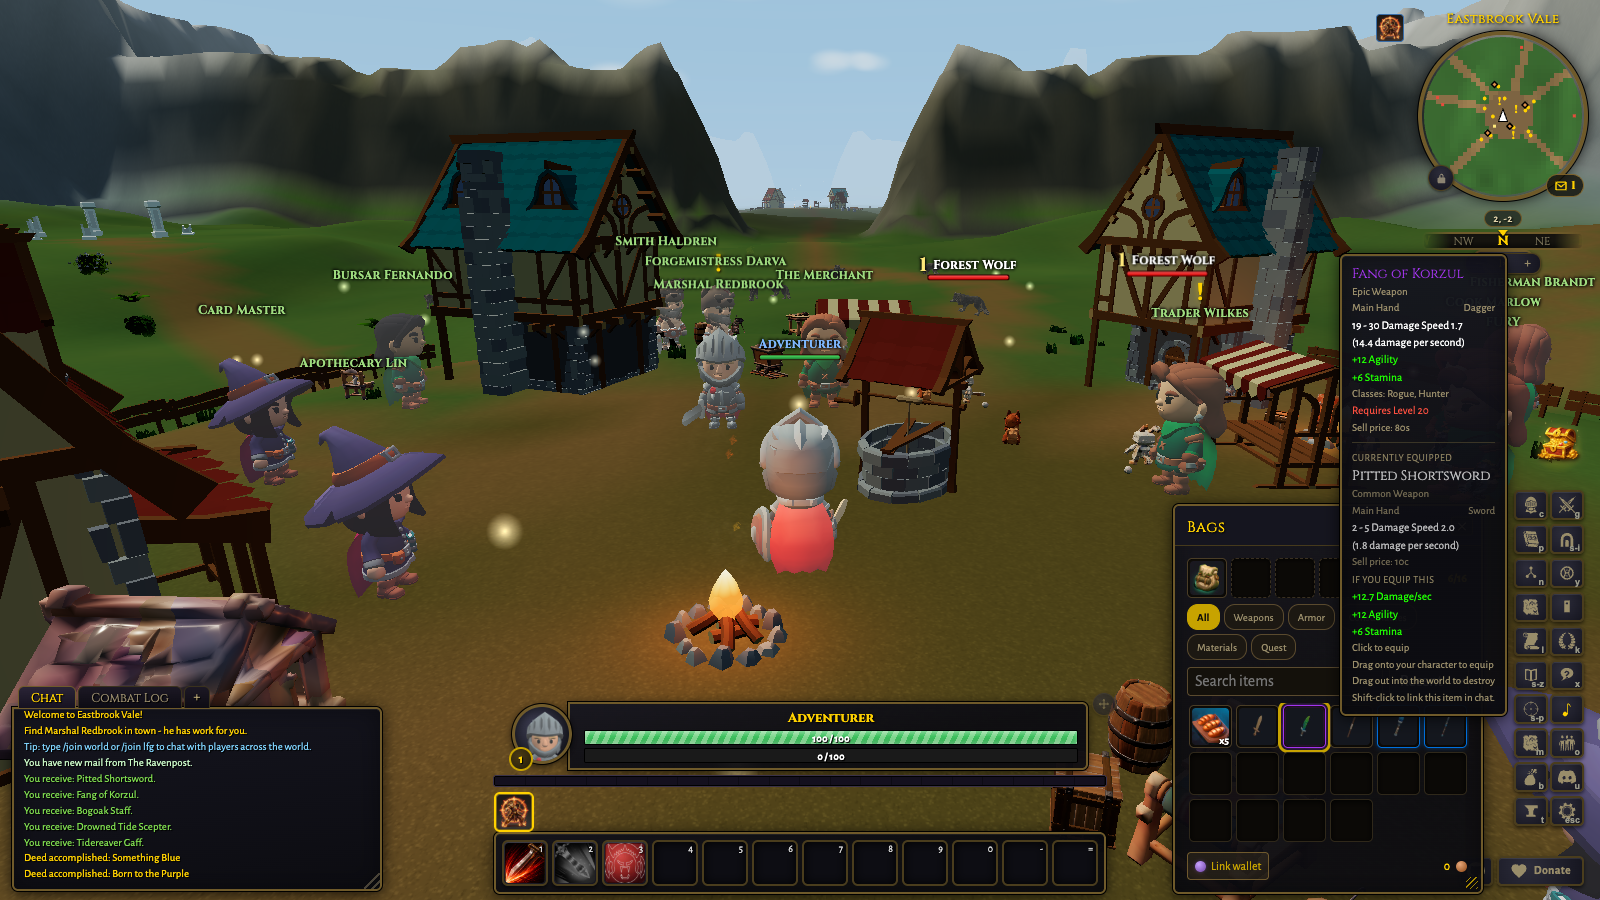
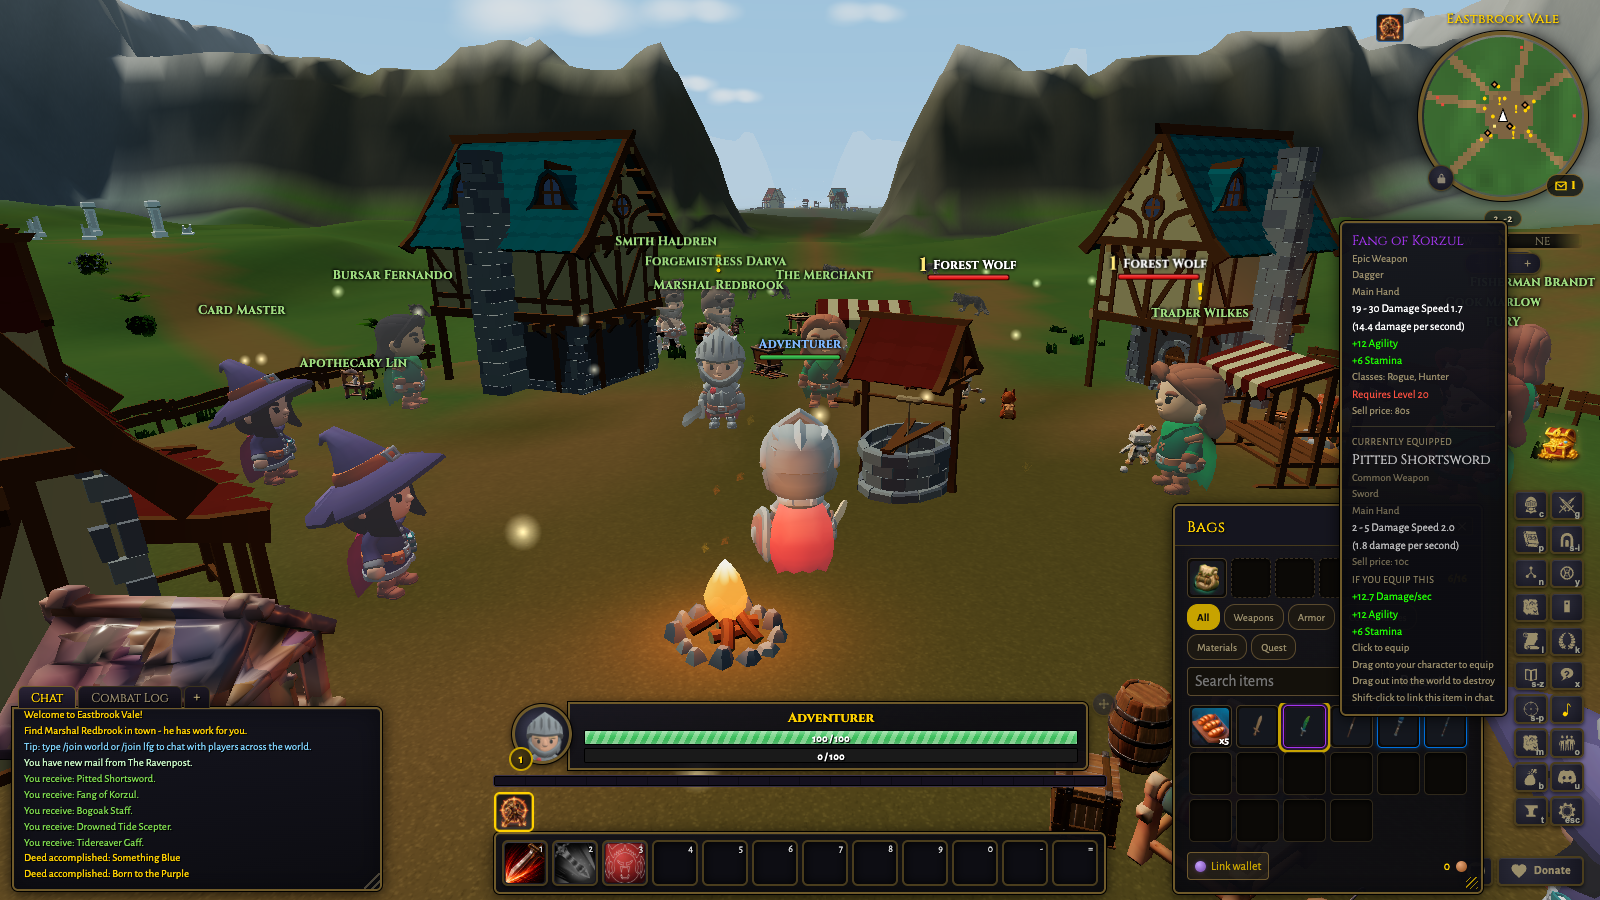
refactor(ui): show weapon type on its own line, not right-aligned
Per review feedback the right-aligned type chip on the slot line read cramped.
Move the weapon type to its own plain muted line under the quality/kind line and
above the slot/handedness line, classic-style, e.g.

  Epic Weapon
  Dagger
  Main Hand

The armor-weight row (Cloth/Leather/Mail, right-aligned and class-colored) is
unchanged. Updates the tooltip test to pin the new stacked ordering and refreshes
the before/after screenshots.

diff --git a/tests/weapon_type_tooltip.test.ts b/tests/weapon_type_tooltip.test.ts
@@ -31,39 +31,46 @@ function tooltip(itemId: string, playerClass?: string): string {
   return harness(playerClass).itemTooltip(item, false);
 }
 
-describe('weapon type on the item tooltip slot line', () => {
-  it('shows a sword its type in a tt-weapon-type span on the slot row', () => {
+describe('weapon type line on the item tooltip', () => {
+  it('shows a sword its type on its own plain line under the quality/kind line and above the slot', () => {
     const html = tooltip('worn_sword');
-    expect(html).toContain('tt-weapon-type');
-    expect(html).toContain('>Sword<');
-    // Mirrors the armor-weight row: same tt-sub tt-row two-sided layout.
-    expect(html).toMatch(/<div class="tt-sub tt-row">.*tt-weapon-type/);
-    // Never colored by class like armor weight.
+    // Its own plain sub-line, NOT a right-aligned chip inside the slot tt-row.
+    expect(html).toContain('<div class="tt-sub tt-weapon-type">Sword</div>');
+    // Ordering: quality/kind line, then the type line, then the slot line.
+    const qualityIdx = html.indexOf('<div class="tt-sub">Common Weapon</div>');
+    const typeIdx = html.indexOf('<div class="tt-sub tt-weapon-type">Sword</div>');
+    const slotIdx = html.indexOf('<div class="tt-sub">Main Hand</div>');
+    expect(qualityIdx).toBeGreaterThanOrEqual(0);
+    expect(typeIdx).toBeGreaterThan(qualityIdx);
+    expect(slotIdx).toBeGreaterThan(typeIdx);
+    // Never a right-aligned tt-row chip and never colored by class like armor weight.
+    expect(html).not.toMatch(/tt-row"><span>[^<]*<\/span><span class="tt-weapon-type"/);
     expect(html).not.toContain('tt-armor');
   });
 
   it('shows a dagger its type and drops the old standalone Dagger sub-line', () => {
     const html = tooltip('fang_of_korzul');
-    expect(html).toContain('tt-weapon-type');
-    expect(html).toContain('>Dagger<');
-    // The legacy line was a plain `<div class="tt-sub">Dagger</div>` with no
-    // tt-row wrapper. Assert that exact standalone form is gone (the type now
-    // rides the slot row instead).
+    expect(html).toContain('<div class="tt-sub tt-weapon-type">Dagger</div>');
+    // The legacy line was a plain `<div class="tt-sub">Dagger</div>` (no
+    // tt-weapon-type class) emitted below the DPS. Assert that exact standalone
+    // form is gone: the type now reads on its own line above the slot instead.
     expect(html).not.toContain('<div class="tt-sub">Dagger</div>');
   });
 
   it('labels a polearm with the newly added type label', () => {
-    const html = tooltip('tidereaver_gaff');
-    expect(html).toContain('tt-weapon-type');
-    expect(html).toContain('>Polearm<');
+    expect(tooltip('tidereaver_gaff')).toContain(
+      '<div class="tt-sub tt-weapon-type">Polearm</div>',
+    );
   });
 
   it('labels staff and wand types', () => {
-    expect(tooltip('gnarled_staff')).toContain('>Staff<');
-    expect(tooltip('drowned_tide_scepter')).toContain('>Wand<');
+    expect(tooltip('gnarled_staff')).toContain('<div class="tt-sub tt-weapon-type">Staff</div>');
+    expect(tooltip('drowned_tide_scepter')).toContain(
+      '<div class="tt-sub tt-weapon-type">Wand</div>',
+    );
   });
 
-  it('leaves the armor tooltip unchanged: armor-weight row, no weapon-type span', () => {
+  it('leaves the armor tooltip unchanged: armor-weight row, no weapon-type line', () => {
     // apprentice_robe is cloth chest armor; a mage can wear it (no tt-armor-bad).
     const html = tooltip('apprentice_robe', 'mage');
     expect(html).toContain('tt-armor');

diff --git a/src/ui/hud.ts b/src/ui/hud.ts
@@ -4511,6 +4511,19 @@ export class Hud {
       qualityKindHtml += ` <span style="color:#e5cc80">${esc(t('hudChrome.itemHeroicTag'))}</span>`;
     }
     html += `<div class="tt-sub">${qualityKindHtml}</div>`;
+    // Weapon type (Sword/Dagger/Mace/...) as its own plain line under the
+    // quality/kind line and above the slot/handedness line, classic-style, so a
+    // player can tell a dagger from a sword at a glance (rogues need daggers). It
+    // is NOT colored by class the way armor weight is: any class can equip most
+    // weapon types and the class/weapon rules are archetype-based, not type-based,
+    // so a red type label would mislead. Null only for a non-weapon or
+    // unclassified id (the map is guarded), which simply shows no type line.
+    if (item.kind === 'weapon') {
+      const weaponTypeKey = weaponTypeLabelKey(item.id);
+      if (weaponTypeKey) {
+        html += `<div class="tt-sub tt-weapon-type">${esc(t(weaponTypeKey))}</div>`;
+      }
+    }
     if (item.slot) {
       // Classic layout: slot name on the left, armor subtype (Cloth/Leather/Mail)
       // right-aligned on the same line so it is clear which classes the gear suits.
@@ -4521,20 +4534,11 @@ export class Hud {
           ? t('itemUi.slots.twoHand')
           : itemSlotName(item.slot);
       const armorTypeKey = itemArmorTypeLabelKey(item);
-      // Weapons show their type (Sword/Dagger/Mace/...) on the same right side,
-      // so a player can tell a dagger from a sword at a glance (rogues need
-      // daggers). Unlike armor weight it is NOT colored by class: any class can
-      // equip most weapon types and the rules are archetype-based, so a red type
-      // label would mislead. Null only for a non-weapon or unclassified id, in
-      // which case the slot line renders without a type rather than a broken chip.
-      const weaponTypeKey = item.kind === 'weapon' ? weaponTypeLabelKey(item.id) : null;
       if (armorTypeKey) {
         // Red armor type = the viewing player's class cannot wear this armor weight
         // (e.g. a mage hovering Mail), so they know it is not for them at a glance.
         const badClass = canEquipItem(this.sim.cfg.playerClass, item) ? '' : ' tt-armor-bad';
         html += `<div class="tt-sub tt-row"><span>${esc(slotName)}</span><span class="tt-armor${badClass}">${esc(t(armorTypeKey))}</span></div>`;
-      } else if (weaponTypeKey) {
-        html += `<div class="tt-sub tt-row"><span>${esc(slotName)}</span><span class="tt-weapon-type">${esc(t(weaponTypeKey))}</span></div>`;
       } else {
         html += `<div class="tt-sub">${esc(slotName)}</div>`;
       }

diff --git a/src/styles/hud.css b/src/styles/hud.css
@@ -3214,11 +3214,11 @@
   #tooltip .tt-row .tt-armor.tt-armor-bad {
     color: #ff5040;
   }
-  /* Weapon type (Sword/Dagger/Mace/...) on the slot line: kept the muted tt-sub
-     color, NOT brightened or class-colored like armor weight. Any class can equip
-     most weapon types, so this is an at-a-glance identity cue, not a can-I-use-it
-     warning. */
-  #tooltip .tt-row .tt-weapon-type {
+  /* Weapon type (Sword/Dagger/Mace/...): its own plain line under the quality/kind
+     line, above the slot. Keeps the muted tt-sub color, deliberately NOT brightened
+     or class-colored like armor weight: any class can equip most weapon types, so
+     this is an at-a-glance identity cue, not a can-I-use-it warning. */
+  #tooltip .tt-weapon-type {
     color: var(--color-text-muted);
   }
   /* One-line aura effect summary under the tooltip title (buff/debuff hover). */
